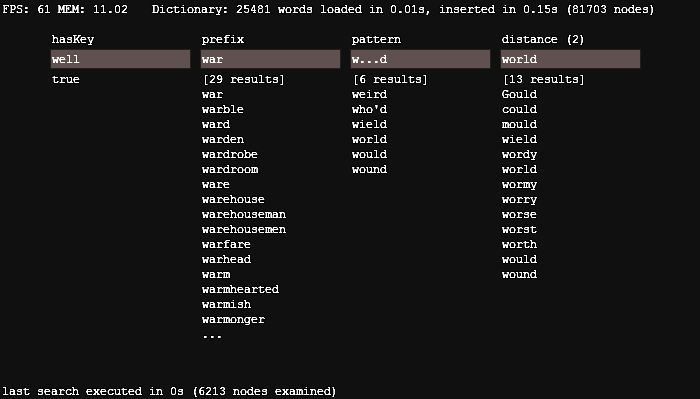
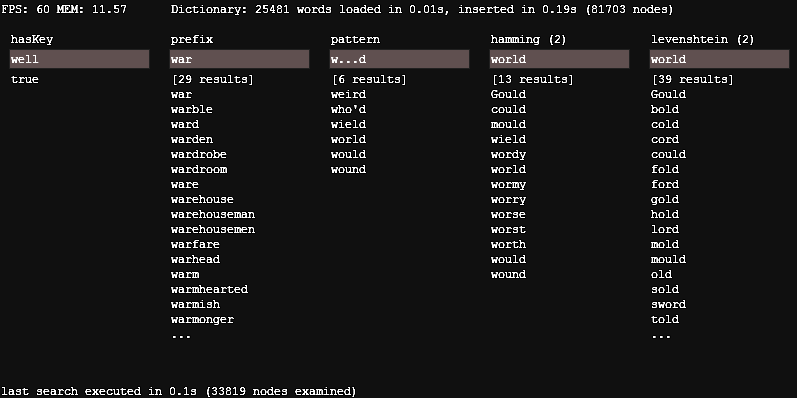
Updated readme and screenshot

diff --git a/README.md b/README.md
@@ -11,7 +11,7 @@ Based on Dr. Dobbs article ([http://www.drdobbs.com/database/ternary-search-tree
 
 **Features:**
 
- - Multiple search types (exact, prefix, pattern, [Hamming distance](http://en.wikipedia.org/wiki/Hamming_distance))
+ - Multiple search types (exact, prefix, pattern, [Hamming distance](http://en.wikipedia.org/wiki/Hamming_distance), [Levenshtein distance](http://en.wikipedia.org/wiki/Levenshtein_distance))
  - Multiple insert modes (sequential, random, balanced)
  - Serialization/Unserialization
  - Association of arbitrary data to keys (~like a `Map<String, T>`)
